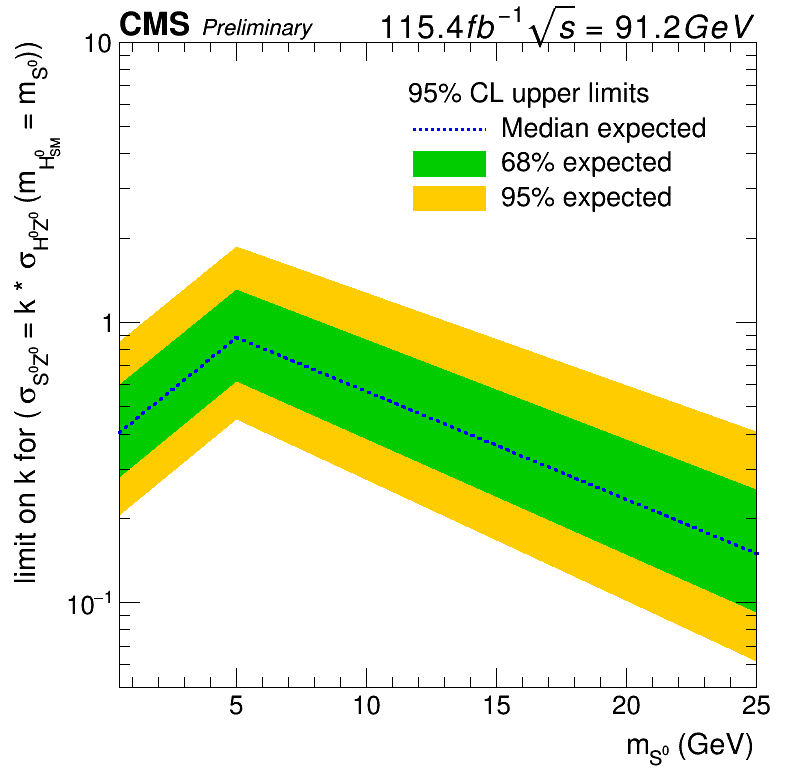
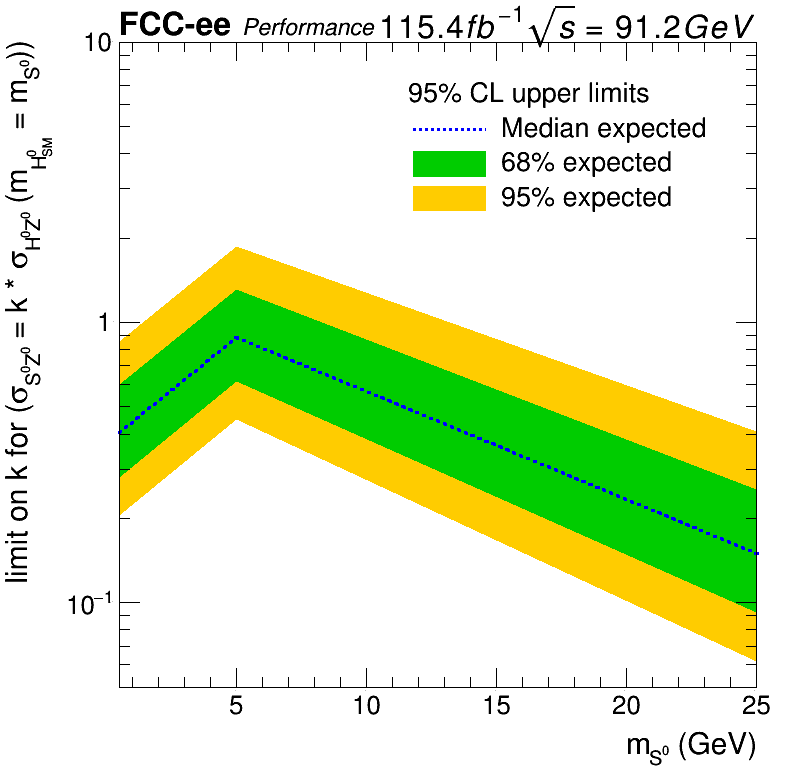
limitplot title update

diff --git a/combine/make_limit_plot.py b/combine/make_limit_plot.py
@@ -187,7 +187,7 @@ def makePlotUpperLimit():
     latex.SetTextAlign(13)
     latex.SetTextFont(42)
     latex.SetTextSize(0.045)
-    latex.DrawLatex(0.15, 0.985, "#bf{CMS} #scale[0.7]{#it{Preliminary}}")
+    latex.DrawLatex(0.15, 0.985, "#bf{FCC-ee} #scale[0.7]{#it{Performance}}")
     
     
     ROOT.gPad.SetTicks()
